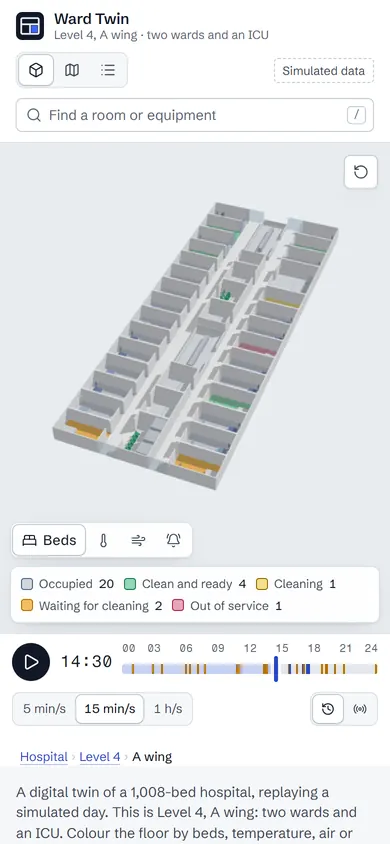
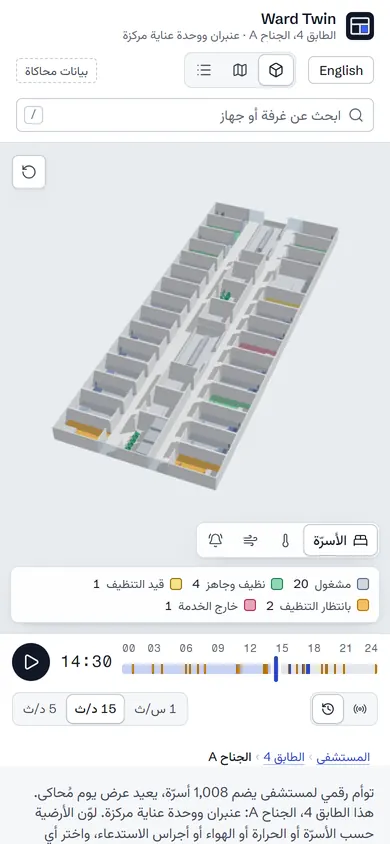
Ward Twin case: the Arabic interface
- Ward Twin is now Arabic and English (AR/EN) and listed under Arabic,
  right to left: its whole interface switches to Arabic (ward-twin
  8b67f96).
- A story block on what mirrors and what keeps running left to right,
  the Arabic plurals and floor labels, Vazirmatn chosen by comparison,
  and the test that holds the catalogue to the code.
- The phone evidence is recaptured in Arabic; a link opens the demo in
  Arabic.
- 56 unit and 16 browser tests; the first load, 89.7 kB, counts the
  chunks the entry imports.

diff --git a/index.html b/index.html
@@ -2840,16 +2840,16 @@ clip-path: none !important;
 <article class="feature feature--film" id="case-wardtwin" aria-labelledby="case-wardtwin-title">
   <header class="feature__head">
     <h3 class="feature__title" id="case-wardtwin-title">Ward Twin</h3>
-    <p class="feature__lede">A digital twin of a hospital, built as a concept: six levels of six wings as a 3D model in the browser, replaying one simulated day or following it live, event by event. Beds turn over from occupied to cleaning to ready, rooms warm through HVAC faults, call lights wait too long at shift change and pumps move between rooms. It opens on one wing, pulls out to a level or the whole building, and from any bed finds the nearest free equipment and the walk to it. I designed it and built all of it, the simulation included, and every number on it is simulated.</p>
+    <p class="feature__lede">A digital twin of a hospital, built as a concept: six levels of six wings as a 3D model in the browser, replaying one simulated day or following it live, event by event. Beds turn over from occupied to cleaning to ready, rooms warm through HVAC faults, call lights wait too long at shift change and pumps move between rooms. It opens on one wing, pulls out to a level or the whole building, and from any bed finds the nearest free equipment and the walk to it. The whole interface also switches to Arabic, right to left. I designed it and built all of it, the simulation included, and every number on it is simulated.</p>
   </header>
   <dl class="glance"><div><dt>Role</dt><dd>Concept, design and build</dd></div><div><dt>Focus</dt><dd>A 3D model that answers one operational question at a time, and stays fast at the scale of a hospital</dd></div><div><dt>Built with</dt><dd>React Three Fiber, three.js and TypeScript; compressed glTF; the day simulated in a Web Worker; wayfinding on a graph of the building</dd></div><div><dt>Live demo</dt><dd><a href="https://imsemoo.github.io/ward-twin/" target="_blank" rel="noopener">imsemoo.github.io/ward-twin</a></dd></div></dl>
   <figure class="film" data-film data-reveal-ev><div class="film__frame"><video class="film__video" src="img/work/ev/wardtwin-film-720.mp4" poster="img/work/ev/wardtwin-film-still.webp" width="1280" height="720" controls muted playsinline preload="none" aria-label="Ward Twin demo film"></video></div><figcaption class="ev__cap">A 40-second recording of the live demo, captured frame by frame on a fixed clock: the opening shot, the four layers, room 4A09 heating past its limit through the afternoon, the walk to the nearest free pump in the next wing, the whole hospital drawn apart, and level 4 in 3D and as a plan.</figcaption></figure>
-  <div class="evidence evidence--p2" style="--phones: 2"><figure class="ev ev--wide" data-reveal-ev><div class="shot "><div class="shot__bar"><span class="shot__cap">imsemoo.github.io/ward-twin/?select=4A09&amp;t=21:00</span></div><img class="shot__img" src="img/work/ev/wardtwin-route-1400.webp" srcset="img/work/ev/wardtwin-route-800.webp 800w, img/work/ev/wardtwin-route-1400.webp 1400w" sizes="(min-width: 900px) 58vw, 94vw" width="1400" height="875" alt="Level 4 in 3D with a dashed blue line from room 4A09 along the corridor and across a glazed link to a pump in the next wing, tagged 1 min away, beside the room&#x27;s panel." loading="lazy" decoding="async"></div><figcaption class="ev__cap">At 21:00 no pump is free in 4A09&#x27;s own wing. The nearest is in the next one, and the walk is drawn down the corridor and across the glazed link: 87 m, about a minute.</figcaption></figure><figure class="ev ev--phone" data-reveal-ev><div class="phone"><img src="img/work/ev/wardtwin-home-phone-600.webp" srcset="img/work/ev/wardtwin-home-phone-390.webp 390w, img/work/ev/wardtwin-home-phone-600.webp 600w" sizes="(min-width: 900px) 15vw, 44vw" width="600" height="1298" alt="Wing 4A on a phone, turned lengthwise, above the layer switch, its key and the timeline." loading="lazy" decoding="async"></div><figcaption class="ev__cap">At phone width a wing turns lengthwise to fit the screen, above the layer key and the timeline.</figcaption></figure><figure class="ev ev--phone" data-reveal-ev><div class="phone"><img src="img/work/ev/wardtwin-room-phone-600.webp" srcset="img/work/ev/wardtwin-room-phone-390.webp 390w, img/work/ev/wardtwin-room-phone-600.webp 600w" sizes="(min-width: 900px) 15vw, 44vw" width="600" height="1298" alt="Room 4A09 close up on a phone, its floor red in the temperature layer, with a tag reading its temperature." loading="lazy" decoding="async"></div><figcaption class="ev__cap">Room 4A09 at 15:30, in the temperature layer. The camera flew to it from a link that names the room, the layer and the time.</figcaption></figure></div>
+  <div class="evidence evidence--p2" style="--phones: 2"><figure class="ev ev--wide" data-reveal-ev><div class="shot "><div class="shot__bar"><span class="shot__cap">imsemoo.github.io/ward-twin/?select=4A09&amp;t=21:00</span></div><img class="shot__img" src="img/work/ev/wardtwin-route-1400.webp" srcset="img/work/ev/wardtwin-route-800.webp 800w, img/work/ev/wardtwin-route-1400.webp 1400w" sizes="(min-width: 900px) 58vw, 94vw" width="1400" height="875" alt="Level 4 in 3D with a dashed blue line from room 4A09 along the corridor and across a glazed link to a pump in the next wing, tagged 1 min away, beside the room&#x27;s panel." loading="lazy" decoding="async"></div><figcaption class="ev__cap">At 21:00 no pump is free in 4A09&#x27;s own wing. The nearest is in the next one, and the walk is drawn down the corridor and across the glazed link: 87 m, about a minute.</figcaption></figure><figure class="ev ev--phone" data-reveal-ev><div class="phone"><img src="img/work/ev/wardtwin-home-phone-600.webp" srcset="img/work/ev/wardtwin-home-phone-390.webp 390w, img/work/ev/wardtwin-home-phone-600.webp 600w" sizes="(min-width: 900px) 15vw, 44vw" width="600" height="1298" alt="Wing 4A on a phone in Arabic: the top bar, the layer switch and its key right to left above the model, turned lengthwise, and the timeline." loading="lazy" decoding="async"></div><figcaption class="ev__cap">At phone width a wing turns lengthwise to fit the screen. Here in Arabic: the bar, the layers and the key read right to left, and the timeline still runs left to right.</figcaption></figure><figure class="ev ev--phone" data-reveal-ev><div class="phone"><img src="img/work/ev/wardtwin-room-phone-600.webp" srcset="img/work/ev/wardtwin-room-phone-390.webp 390w, img/work/ev/wardtwin-room-phone-600.webp 600w" sizes="(min-width: 900px) 15vw, 44vw" width="600" height="1298" alt="Room 4A09 close up on a phone, its floor red in the temperature layer, with a tag reading its temperature." loading="lazy" decoding="async"></div><figcaption class="ev__cap">Room 4A09 at 15:30, in the temperature layer. The camera flew to it from a link that names the room, the layer and the time.</figcaption></figure></div>
   <p class="decision"><strong class="decision__lead">The decision.</strong> The floors carry the data, one question at a time. A layer colours every room, in one wing or across all six levels, by bed state, temperature, air or call-light wait, with its key beside it, on a white model that never competes with the colour. In temperature and air a room shows its own sensor and only the corridors, which have none, are estimated, from the doors that open onto them. Picking a room flies the camera to it and opens that room&#x27;s day beside the model.</p>
-  <section class="system" aria-labelledby="case-wardtwin-system"><h4 id="case-wardtwin-system">The system: an architect&#x27;s white model, data on the floors</h4><ul class="swatches"><li class="sw"><span class="sw__chip" style="--c:#E8ECF0" aria-hidden="true"></span><span class="sw__name">Ground</span><code>#E8ECF0</code><span class="sw__role">The drafting ground under the model</span></li><li class="sw"><span class="sw__chip" style="--c:#FBFBFC" aria-hidden="true"></span><span class="sw__name">Model</span><code>#FBFBFC</code><span class="sw__role">Walls, beds and fixtures, the white model</span></li><li class="sw"><span class="sw__chip" style="--c:#2A3441" aria-hidden="true"></span><span class="sw__name">Ink</span><code>#2A3441</code><span class="sw__role">The walls in plan view, cut and inked</span></li><li class="sw"><span class="sw__chip" style="--c:#2946C7" aria-hidden="true"></span><span class="sw__name">Blue line</span><code>#2946C7</code><span class="sw__role">Selection, focus and actions, 7.5:1 on white</span></li><li class="sw"><span class="sw__chip" style="--c:#157A4C" aria-hidden="true"></span><span class="sw__name">Ready</span><code>#157A4C</code><span class="sw__role">A clean bed; its soft tint fills the floor</span></li><li class="sw"><span class="sw__chip" style="--c:#B86E00" aria-hidden="true"></span><span class="sw__name">Waiting</span><code>#B86E00</code><span class="sw__role">A bed waiting for cleaning, and warnings</span></li></ul><p class="system__note">Schibsted Grotesk carries the interface and Fragment Mono the room numbers, times and readings, with tabular figures. Every status comes in two strengths: a strong one for chips and icons in the panel, a soft one for the floors, so the model stays white and colour always means data. Temperature and air get their own ramps, with the key beside the model.</p><figure class="ev ev--grid" data-reveal-ev><ul class="vgrid" style="--n: 4"><li class="vgrid__item"><img src="img/work/ev/wardtwin-plan-600.webp" width="600" height="375" alt="A wing as a plan: walls cut and inked, rooms coloured by bed state." loading="lazy" decoding="async"><span class="vgrid__label">Plan view</span></li><li class="vgrid__item"><img src="img/work/ev/wardtwin-air-600.webp" width="600" height="375" alt="The plan coloured by CO2 at 18:00, the family lounge darkest and its stale air estimated spilling into the corridor outside its door, its alert in the side panel." loading="lazy" decoding="async"><span class="vgrid__label">Air at 18:00</span></li><li class="vgrid__item"><img src="img/work/ev/wardtwin-level-600.webp" width="600" height="375" alt="Level 4 in 3D: six wings on one plate, joined by glazed links, each named." loading="lazy" decoding="async"><span class="vgrid__label">Level 4</span></li><li class="vgrid__item"><img src="img/work/ev/wardtwin-list-600.webp" width="600" height="375" alt="Every wing in a table: beds occupied, ready, being cleaned, waiting and out of service, and its open alerts." loading="lazy" decoding="async"><span class="vgrid__label">List view</span></li></ul><figcaption class="ev__cap">Four views of the same day: a wing as a plan drawing, the air layer at 18:00, level 4 with its six wings, and every wing of the hospital in a table.</figcaption></figure></section>
-  <div class="story"><div class="story__blocks"><section class="story__block"><h4>A day that behaves like a ward</h4><p>The simulation is written to tell a ward&#x27;s afternoon: discharges cluster late in the morning and admissions arrive through the evening, so beds sit dirty, then in cleaning, then ready and waiting. Rooms warm through HVAC faults, the family lounge gets stuffy in visiting hours, pumps run low until someone plugs them in, and call lights wait longer at shift change. Each of the 36 wings runs from its own seed, so every visitor replays the same day and one wing&#x27;s day never shifts another&#x27;s; wing 4A, where the demo opens, keeps a scripted story on top. It all runs in a Web Worker, and the wing on show arrives first, in under 30 ms, with the rest of the hospital under a second behind.</p></section><section class="story__block"><h4>From one wing to the whole hospital</h4><p>The model works at three scales. A wing is two wards and an ICU, close enough to read a bed. A level puts its six wings on one plate, joined by glazed links. All levels draws the six floors apart, an exploded section of the building, each coloured by the same layer, so a warm room shows from across the hospital. A map of the building sits beside the model, every wing shaded by how full it is and marked where something critical is open; a click on a wing flies into it, and a trail above the panel leads back up. The camera fits each scale by projecting its corners through a trial camera, so the model always clears the overlays, and the address bar keeps the scale, view, layer, time and selection, so every view is a link.</p></section><section class="story__block"><h4>The drawing and the model are one scene</h4><p>Plan view does not swap in a flat map. Every wall sinks to a section cut 15 cm above the floor and darkens to ink, so the model turns into the architect&#x27;s drawing and back, for a wing or a whole level, and the first load plays the same move the other way: the plan rises into the building. List view carries the same data as a table, for keyboards, screen readers and anyone who wants to scan.</p></section><section class="story__block"><h4>The nearest free pump, and the walk to it</h4><p>From any bed, Nearest free finds the infusion pump, wheelchair or bladder scanner, or from an ICU bay the ventilator, that is quickest to reach on foot anywhere in the hospital. The walk runs on a graph of the building, 4,296 points: every room and its door, both corridors of each wing, the crossing through the core, the glazed links and the lifts. Costs are seconds, 1.2 m/s on foot and a lift as a wait plus a few seconds a floor. The question has many possible answers, so one Dijkstra search from the room reaches them all, where A* would need a search for each pump; a search takes 2 to 11 ms. The walk is drawn over the walls, the view widens to the level or the building to hold it, and the search loads only when someone first asks, as its own 1.4 kB file.</p></section><section class="story__block"><h4>Alerts that know only the present</h4><p>An alert keeps only what was known when it opened, and it is worded at the minute on the timeline: pressed at 14:21, nine minutes without an answer. Scrub to any time and nothing gives away what happens next. Severity is read at that minute too, so a warming room turns critical only once it passes 26.5 °C.</p></section><section class="story__block"><h4>Live, from a stream of events</h4><p>Live mode builds the hospital from events as they arrive instead of from a recorded day. A mock server in a Web Worker plays the day over the JSON protocol a real integration server would use, a simulated minute each second, and the page folds each event into the same day the views already read, so none of them had to change. Sequence numbers keep the stream whole: when the connection drops, the page says the floor is stale, waits longer before each retry, and asks for only the events it missed, from the last 2,000 the server keeps. A test replays the whole day as events and checks that it reads exactly like the recording at every five-minute reading.</p></section><section class="story__block"><h4>Fast because it draws less</h4><p>The canvas renders only when something changes, so an idle hospital costs no GPU time. Every wing is built to one plan, so each part of the shell is one instanced mesh for all 36 wings, and the 1,368 room floors are one more, which is also the pick target. Only what is in view is packed into what the GPU draws: the first build of the hospital hid the other wings but still sent them to the GPU, 207,000 triangles for one wing, and packing brought that back to 15,000. Beds, patients, bedside furniture and equipment are glTF models, 17,208 triangles compressed to 129 KB, drawn as instances with a shader that tints only the parts that carry state, such as a blanket or a pump&#x27;s housing. Each switches to a plain proxy by its distance from where the camera looks, and to a box in the whole-hospital view, which draws in 33 draw calls, fewer than one wing up close. The corridors&#x27; temperature and air are estimated in the fragment shader, from each wing&#x27;s 38 doors weighted by how wide they are, with isolines and the alert limit drawn from screen-space derivatives; switching that layer on costs 1 or 2 fps.</p></section><section class="story__block"><h4>It adapts, recovers and is tested</h4><p>Quality adapts to the device: four levels, from ambient occlusion with SMAA down to plain rendering at a lower pixel ratio, stepped by the frame rate measured while the scene moves. If the graphics driver resets, the view says it has paused and rebuilds itself. Every push runs 51 unit tests, 14 browser tests with real WebGL at desktop and phone size, lint, types and a size budget for each bundle, and a failure stops the deploy.</p></section></div></div>
-  <div class="outcome outcome--two"><div class="outcome__result"><h4>Result</h4><ul><li>A concept: the hospital, the patients and the readings are simulated, and the page says so on every view.</li><li>Live on GitHub Pages, with the code public. The interface loads first at under 90 kB gzipped, the scene and three.js follow at 215 kB and 99 kB, then the models at 129 KB. Ambient occlusion and SMAA load last, at 157 kB, and only when the quality level uses them; the wayfinding search loads on first use, at 1.4 kB.</li><li>Measured in September 2026 on an integrated Intel GPU at 1280 by 800, orbiting with ambient occlusion and SMAA, over three runs: the whole hospital at 72 to 90 fps in 33 draw calls, a level at 74 to 90 fps, one wing at 69 to 81 fps in 43, and close to a room at 61 to 77 fps.</li></ul></div><div class="outcome__reflect"><h4>What I would do differently</h4><p>Test on a range of real devices. The frame rates here come from one laptop and emulated phones, and a low-end Android phone is the test it still needs.</p></div></div>
-  <p class="feature__links"><a class="btn btn--ghost" href="https://imsemoo.github.io/ward-twin/" target="_blank" rel="noopener">Open the live demo <svg class="icon" aria-hidden="true" focusable="false"><use href="#i-arrow-up-right"/></svg></a><a class="btn btn--ghost" href="https://imsemoo.github.io/ward-twin/?at=hospital" target="_blank" rel="noopener">Open the whole hospital <svg class="icon" aria-hidden="true" focusable="false"><use href="#i-arrow-up-right"/></svg></a><a class="btn btn--ghost" href="https://github.com/imsemoo/ward-twin" target="_blank" rel="noopener">Code on GitHub <svg class="icon" aria-hidden="true" focusable="false"><use href="#i-arrow-up-right"/></svg></a><a class="btn btn--ghost" href="https://github.com/imsemoo/ward-twin/blob/main/docs/live-feed.md" target="_blank" rel="noopener">How the live feed works <svg class="icon" aria-hidden="true" focusable="false"><use href="#i-arrow-up-right"/></svg></a></p>
+  <section class="system" aria-labelledby="case-wardtwin-system"><h4 id="case-wardtwin-system">The system: an architect&#x27;s white model, data on the floors</h4><ul class="swatches"><li class="sw"><span class="sw__chip" style="--c:#E8ECF0" aria-hidden="true"></span><span class="sw__name">Ground</span><code>#E8ECF0</code><span class="sw__role">The drafting ground under the model</span></li><li class="sw"><span class="sw__chip" style="--c:#FBFBFC" aria-hidden="true"></span><span class="sw__name">Model</span><code>#FBFBFC</code><span class="sw__role">Walls, beds and fixtures, the white model</span></li><li class="sw"><span class="sw__chip" style="--c:#2A3441" aria-hidden="true"></span><span class="sw__name">Ink</span><code>#2A3441</code><span class="sw__role">The walls in plan view, cut and inked</span></li><li class="sw"><span class="sw__chip" style="--c:#2946C7" aria-hidden="true"></span><span class="sw__name">Blue line</span><code>#2946C7</code><span class="sw__role">Selection, focus and actions, 7.5:1 on white</span></li><li class="sw"><span class="sw__chip" style="--c:#157A4C" aria-hidden="true"></span><span class="sw__name">Ready</span><code>#157A4C</code><span class="sw__role">A clean bed; its soft tint fills the floor</span></li><li class="sw"><span class="sw__chip" style="--c:#B86E00" aria-hidden="true"></span><span class="sw__name">Waiting</span><code>#B86E00</code><span class="sw__role">A bed waiting for cleaning, and warnings</span></li></ul><p class="system__note">Schibsted Grotesk carries the interface, Vazirmatn its Arabic, and Fragment Mono the room numbers, times and readings, with tabular figures. Every status comes in two strengths: a strong one for chips and icons in the panel, a soft one for the floors, so the model stays white and colour always means data. Temperature and air get their own ramps, with the key beside the model.</p><figure class="ev ev--grid" data-reveal-ev><ul class="vgrid" style="--n: 4"><li class="vgrid__item"><img src="img/work/ev/wardtwin-plan-600.webp" width="600" height="375" alt="A wing as a plan: walls cut and inked, rooms coloured by bed state." loading="lazy" decoding="async"><span class="vgrid__label">Plan view</span></li><li class="vgrid__item"><img src="img/work/ev/wardtwin-air-600.webp" width="600" height="375" alt="The plan coloured by CO2 at 18:00, the family lounge darkest and its stale air estimated spilling into the corridor outside its door, its alert in the side panel." loading="lazy" decoding="async"><span class="vgrid__label">Air at 18:00</span></li><li class="vgrid__item"><img src="img/work/ev/wardtwin-level-600.webp" width="600" height="375" alt="Level 4 in 3D: six wings on one plate, joined by glazed links, each named." loading="lazy" decoding="async"><span class="vgrid__label">Level 4</span></li><li class="vgrid__item"><img src="img/work/ev/wardtwin-list-600.webp" width="600" height="375" alt="Every wing in a table: beds occupied, ready, being cleaned, waiting and out of service, and its open alerts." loading="lazy" decoding="async"><span class="vgrid__label">List view</span></li></ul><figcaption class="ev__cap">Four views of the same day: a wing as a plan drawing, the air layer at 18:00, level 4 with its six wings, and every wing of the hospital in a table.</figcaption></figure></section>
+  <div class="story"><div class="story__blocks"><section class="story__block"><h4>A day that behaves like a ward</h4><p>The simulation is written to tell a ward&#x27;s afternoon: discharges cluster late in the morning and admissions arrive through the evening, so beds sit dirty, then in cleaning, then ready and waiting. Rooms warm through HVAC faults, the family lounge gets stuffy in visiting hours, pumps run low until someone plugs them in, and call lights wait longer at shift change. Each of the 36 wings runs from its own seed, so every visitor replays the same day and one wing&#x27;s day never shifts another&#x27;s; wing 4A, where the demo opens, keeps a scripted story on top. It all runs in a Web Worker, and the wing on show arrives first, in under 30 ms, with the rest of the hospital under a second behind.</p></section><section class="story__block"><h4>From one wing to the whole hospital</h4><p>The model works at three scales. A wing is two wards and an ICU, close enough to read a bed. A level puts its six wings on one plate, joined by glazed links. All levels draws the six floors apart, an exploded section of the building, each coloured by the same layer, so a warm room shows from across the hospital. A map of the building sits beside the model, every wing shaded by how full it is and marked where something critical is open; a click on a wing flies into it, and a trail above the panel leads back up. The camera fits each scale by projecting its corners through a trial camera, so the model always clears the overlays, and the address bar keeps the scale, view, layer, time and selection, so every view is a link.</p></section><section class="story__block"><h4>The drawing and the model are one scene</h4><p>Plan view does not swap in a flat map. Every wall sinks to a section cut 15 cm above the floor and darkens to ink, so the model turns into the architect&#x27;s drawing and back, for a wing or a whole level, and the first load plays the same move the other way: the plan rises into the building. List view carries the same data as a table, for keyboards, screen readers and anyone who wants to scan.</p></section><section class="story__block"><h4>The nearest free pump, and the walk to it</h4><p>From any bed, Nearest free finds the infusion pump, wheelchair or bladder scanner, or from an ICU bay the ventilator, that is quickest to reach on foot anywhere in the hospital. The walk runs on a graph of the building, 4,296 points: every room and its door, both corridors of each wing, the crossing through the core, the glazed links and the lifts. Costs are seconds, 1.2 m/s on foot and a lift as a wait plus a few seconds a floor. The question has many possible answers, so one Dijkstra search from the room reaches them all, where A* would need a search for each pump; a search takes 2 to 11 ms. The walk is drawn over the walls, the view widens to the level or the building to hold it, and the search loads only when someone first asks, as its own 1.4 kB file.</p></section><section class="story__block"><h4>Alerts that know only the present</h4><p>An alert keeps only what was known when it opened, and it is worded at the minute on the timeline: pressed at 14:21, nine minutes without an answer. Scrub to any time and nothing gives away what happens next. Severity is read at that minute too, so a warming room turns critical only once it passes 26.5 °C.</p></section><section class="story__block"><h4>In English or Arabic</h4><p>A switch in the top bar turns the whole interface to Arabic, right to left, and a link can open it that way. The layout mirrors, the panel moving to the left of the model and the overlays trading sides, while time and scales keep running left to right, as in a media player: the timeline, the charts, the colour ramps and the map of the building. The alerts are worded in Arabic with its six plural forms, and the room names are set in Arabic on the floors. Vazirmatn was chosen by setting the interface&#x27;s own text in six Arabic faces beside Schibsted Grotesk. It and the Arabic catalogue load only for an Arabic visit, and a test that parses the source fails if the catalogue misses a string the interface says.</p></section><section class="story__block"><h4>Live, from a stream of events</h4><p>Live mode builds the hospital from events as they arrive instead of from a recorded day. A mock server in a Web Worker plays the day over the JSON protocol a real integration server would use, a simulated minute each second, and the page folds each event into the same day the views already read, so none of them had to change. Sequence numbers keep the stream whole: when the connection drops, the page says the floor is stale, waits longer before each retry, and asks for only the events it missed, from the last 2,000 the server keeps. A test replays the whole day as events and checks that it reads exactly like the recording at every five-minute reading.</p></section><section class="story__block"><h4>Fast because it draws less</h4><p>The canvas renders only when something changes, so an idle hospital costs no GPU time. Every wing is built to one plan, so each part of the shell is one instanced mesh for all 36 wings, and the 1,368 room floors are one more, which is also the pick target. Only what is in view is packed into what the GPU draws: the first build of the hospital hid the other wings but still sent them to the GPU, 207,000 triangles for one wing, and packing brought that back to 15,000. Beds, patients, bedside furniture and equipment are glTF models, 17,208 triangles compressed to 129 KB, drawn as instances with a shader that tints only the parts that carry state, such as a blanket or a pump&#x27;s housing. Each switches to a plain proxy by its distance from where the camera looks, and to a box in the whole-hospital view, which draws in 33 draw calls, fewer than one wing up close. The corridors&#x27; temperature and air are estimated in the fragment shader, from each wing&#x27;s 38 doors weighted by how wide they are, with isolines and the alert limit drawn from screen-space derivatives; switching that layer on costs 1 or 2 fps.</p></section><section class="story__block"><h4>It adapts, recovers and is tested</h4><p>Quality adapts to the device: four levels, from ambient occlusion with SMAA down to plain rendering at a lower pixel ratio, stepped by the frame rate measured while the scene moves. If the graphics driver resets, the view says it has paused and rebuilds itself. Every push runs 56 unit tests, 16 browser tests with real WebGL at desktop and phone size, lint, types and a size budget for each bundle, and a failure stops the deploy.</p></section></div></div>
+  <div class="outcome outcome--two"><div class="outcome__result"><h4>Result</h4><ul><li>A concept: the hospital, the patients and the readings are simulated, and the page says so on every view.</li><li>Live on GitHub Pages, with the code public. What paints the interface loads first, at 89.7 kB gzipped; the scene and three.js follow at 215 kB and 99 kB, then the models at 129 KB. Ambient occlusion and SMAA load last, at 157 kB, and only when the quality level uses them, and the wayfinding search, live mode and the Arabic catalogue load on first use.</li><li>Measured in September 2026 on an integrated Intel GPU at 1280 by 800, orbiting with ambient occlusion and SMAA, over three runs: the whole hospital at 72 to 90 fps in 33 draw calls, a level at 74 to 90 fps, one wing at 69 to 81 fps in 43, and close to a room at 61 to 77 fps.</li></ul></div><div class="outcome__reflect"><h4>What I would do differently</h4><p>Test on a range of real devices. The frame rates here come from one laptop and emulated phones, and a low-end Android phone is the test it still needs.</p></div></div>
+  <p class="feature__links"><a class="btn btn--ghost" href="https://imsemoo.github.io/ward-twin/" target="_blank" rel="noopener">Open the live demo <svg class="icon" aria-hidden="true" focusable="false"><use href="#i-arrow-up-right"/></svg></a><a class="btn btn--ghost" href="https://imsemoo.github.io/ward-twin/?at=hospital" target="_blank" rel="noopener">Open the whole hospital <svg class="icon" aria-hidden="true" focusable="false"><use href="#i-arrow-up-right"/></svg></a><a class="btn btn--ghost" href="https://imsemoo.github.io/ward-twin/?lang=ar" target="_blank" rel="noopener">Open it in Arabic <svg class="icon" aria-hidden="true" focusable="false"><use href="#i-arrow-up-right"/></svg></a><a class="btn btn--ghost" href="https://github.com/imsemoo/ward-twin" target="_blank" rel="noopener">Code on GitHub <svg class="icon" aria-hidden="true" focusable="false"><use href="#i-arrow-up-right"/></svg></a><a class="btn btn--ghost" href="https://github.com/imsemoo/ward-twin/blob/main/docs/live-feed.md" target="_blank" rel="noopener">How the live feed works <svg class="icon" aria-hidden="true" focusable="false"><use href="#i-arrow-up-right"/></svg></a></p>
 </article>
 
     <section class="briefs" aria-labelledby="briefs-title">
@@ -2925,7 +2925,7 @@ clip-path: none !important;
       <p class="lede">46 projects, 36 with a public link. Filter by the kind of project you have in mind and by what you need. Rows marked Case study or In brief open on this page; the rest open the site, or the code where that is public.</p>
     </div>
     <div class="index__bar">
-      <div class="filters" role="group" aria-label="Filter the index"><div class="filters__group" role="group" aria-labelledby="fg-type"><span class="filters__label" id="fg-type">Project type</span><div class="filters__chips"><button class="chip" type="button" data-filter="all" data-group="type" aria-pressed="true">Everything<span class="chip__n" aria-hidden="true" data-n>46</span><span class="visually-hidden" data-n-sr>, 46 projects</span></button><button class="chip" type="button" data-filter="news" data-group="type" aria-pressed="false">News and media<span class="chip__n" aria-hidden="true" data-n>13</span><span class="visually-hidden" data-n-sr>, 13 projects</span></button><button class="chip" type="button" data-filter="apps" data-group="type" aria-pressed="false">Dashboards and web apps<span class="chip__n" aria-hidden="true" data-n>13</span><span class="visually-hidden" data-n-sr>, 13 projects</span></button><button class="chip" type="button" data-filter="commerce" data-group="type" aria-pressed="false">Stores and bookings<span class="chip__n" aria-hidden="true" data-n>9</span><span class="visually-hidden" data-n-sr>, 9 projects</span></button><button class="chip" type="button" data-filter="company" data-group="type" aria-pressed="false">Company sites<span class="chip__n" aria-hidden="true" data-n>11</span><span class="visually-hidden" data-n-sr>, 11 projects</span></button><button class="chip" type="button" data-filter="research" data-group="type" aria-pressed="false">Research and education<span class="chip__n" aria-hidden="true" data-n>4</span><span class="visually-hidden" data-n-sr>, 4 projects</span></button></div></div><div class="filters__group" role="group" aria-labelledby="fg-need"><span class="filters__label" id="fg-need">What you need</span><div class="filters__chips"><button class="chip" type="button" data-filter="design" data-group="need" aria-pressed="false">Design and build<span class="chip__n" aria-hidden="true" data-n>21</span><span class="visually-hidden" data-n-sr>, 21 projects</span></button><button class="chip" type="button" data-filter="figma" data-group="need" aria-pressed="false">Build from my design<span class="chip__n" aria-hidden="true" data-n>6</span><span class="visually-hidden" data-n-sr>, 6 projects</span></button><button class="chip" type="button" data-filter="rtl" data-group="need" aria-pressed="false">Arabic, right to left<span class="chip__n" aria-hidden="true" data-n>21</span><span class="visually-hidden" data-n-sr>, 21 projects</span></button></div></div></div>
+      <div class="filters" role="group" aria-label="Filter the index"><div class="filters__group" role="group" aria-labelledby="fg-type"><span class="filters__label" id="fg-type">Project type</span><div class="filters__chips"><button class="chip" type="button" data-filter="all" data-group="type" aria-pressed="true">Everything<span class="chip__n" aria-hidden="true" data-n>46</span><span class="visually-hidden" data-n-sr>, 46 projects</span></button><button class="chip" type="button" data-filter="news" data-group="type" aria-pressed="false">News and media<span class="chip__n" aria-hidden="true" data-n>13</span><span class="visually-hidden" data-n-sr>, 13 projects</span></button><button class="chip" type="button" data-filter="apps" data-group="type" aria-pressed="false">Dashboards and web apps<span class="chip__n" aria-hidden="true" data-n>13</span><span class="visually-hidden" data-n-sr>, 13 projects</span></button><button class="chip" type="button" data-filter="commerce" data-group="type" aria-pressed="false">Stores and bookings<span class="chip__n" aria-hidden="true" data-n>9</span><span class="visually-hidden" data-n-sr>, 9 projects</span></button><button class="chip" type="button" data-filter="company" data-group="type" aria-pressed="false">Company sites<span class="chip__n" aria-hidden="true" data-n>11</span><span class="visually-hidden" data-n-sr>, 11 projects</span></button><button class="chip" type="button" data-filter="research" data-group="type" aria-pressed="false">Research and education<span class="chip__n" aria-hidden="true" data-n>4</span><span class="visually-hidden" data-n-sr>, 4 projects</span></button></div></div><div class="filters__group" role="group" aria-labelledby="fg-need"><span class="filters__label" id="fg-need">What you need</span><div class="filters__chips"><button class="chip" type="button" data-filter="design" data-group="need" aria-pressed="false">Design and build<span class="chip__n" aria-hidden="true" data-n>21</span><span class="visually-hidden" data-n-sr>, 21 projects</span></button><button class="chip" type="button" data-filter="figma" data-group="need" aria-pressed="false">Build from my design<span class="chip__n" aria-hidden="true" data-n>6</span><span class="visually-hidden" data-n-sr>, 6 projects</span></button><button class="chip" type="button" data-filter="rtl" data-group="need" aria-pressed="false">Arabic, right to left<span class="chip__n" aria-hidden="true" data-n>22</span><span class="visually-hidden" data-n-sr>, 22 projects</span></button></div></div></div>
       <p class="index__count" aria-live="polite"><span data-count>46</span> shown</p>
     </div>
     <ol class="rows" id="index-rows" data-rows data-open="12">
@@ -2936,7 +2936,7 @@ clip-path: none !important;
 <li class="row row--t1" id="p-iwad" data-tags="research design rtl" data-preview="img/work/iwad-600.webp" data-rank-design="1"><span class="row__thumb"><img src="img/work/iwad-thumb.webp" width="240" height="150" alt="" loading="lazy" decoding="async"></span><div class="row__main"><span class="row__title"><a class="row__link" href="#case-devlo"><span class="row__name">IWAD <span class="ar" lang="ar" dir="rtl">إيواد</span></span></a><span class="row__badge">In the Devlo case study</span></span><span class="row__client">Defence research institute</span></div><span class="row__role">UI design from the brand book, the design system and the <span class="nobr">front-end</span></span><span class="row__stack"><span class="tag">HTML</span><span class="tag">CSS</span><span class="tag">JavaScript</span></span><span class="row__lang" title="Arabic"><span class="visually-hidden">Arabic</span><span aria-hidden="true">AR</span></span><a class="row__ext" href="https://wardefense.institute/" target="_blank" rel="noopener" aria-label="Visit wardefense.institute"><span class="row__ext-text">Visit</span><svg class="icon" aria-hidden="true" focusable="false"><use href="#i-arrow-up-right"/></svg></a></li>
 <li class="row row--t1" id="p-kevla" data-tags="company design" data-preview="img/work/kevla-600.webp" data-rank-design="13"><span class="row__thumb"><img src="img/work/kevla-thumb.webp" width="240" height="150" alt="" loading="lazy" decoding="async"></span><div class="row__main"><span class="row__title"><a class="row__link" href="#case-kevla"><span class="row__name">Kevla Campa</span></a><span class="row__badge">Case study</span></span><span class="row__client">Caravan maker, a design concept<span class="row__where">Australia</span></span></div><span class="row__role">Design and <span class="nobr">front-end</span>, not launched</span><span class="row__stack"><span class="tag">HTML</span><span class="tag">CSS</span><span class="tag">ES modules</span></span><span class="row__lang" title="English"><span class="visually-hidden">English</span><span aria-hidden="true">EN</span></span><a class="row__ext" href="https://imsemoo.github.io/kevla-campa/" target="_blank" rel="noopener" aria-label="Visit imsemoo.github.io/kevla-campa"><span class="row__ext-text">Visit</span><svg class="icon" aria-hidden="true" focusable="false"><use href="#i-arrow-up-right"/></svg></a></li>
 <li class="row row--t1" id="p-freightzone" data-tags="apps design" data-preview="img/work/freightzone-600.webp" data-rank-design="3"><span class="row__thumb"><img src="img/work/freightzone-thumb.webp" width="240" height="150" alt="" loading="lazy" decoding="async"></span><div class="row__main"><span class="row__title"><a class="row__link" href="#case-freightzone"><span class="row__name">FreightZone</span></a><span class="row__badge">Case study</span></span><span class="row__client">Freight marketplace, client and driver apps<span class="row__where">Australia</span></span></div><span class="row__role">Product design: UX, UI and the design system</span><span class="row__stack"><span class="tag">Figma</span><span class="tag">Design tokens</span><span class="tag">Auto layout</span></span><span class="row__lang" title="English"><span class="visually-hidden">English</span><span aria-hidden="true">EN</span></span><a class="row__ext" href="https://www.figma.com/design/KLzNmrJ5ljExMreBmA9e5Y/FreightZone-App?node-id=1-2" target="_blank" rel="noopener" aria-label="Visit figma.com/design/KLzNmrJ5ljExMreBmA9e5Y/FreightZone-App?node-id=1-2"><span class="row__ext-text">Visit</span><svg class="icon" aria-hidden="true" focusable="false"><use href="#i-arrow-up-right"/></svg></a></li>
-<li class="row row--t1" id="p-wardtwin" data-tags="apps design" data-preview="img/work/wardtwin-600.webp" data-rank-design="4"><span class="row__thumb"><img src="img/work/wardtwin-thumb.webp" width="240" height="150" alt="" loading="lazy" decoding="async"></span><div class="row__main"><span class="row__title"><a class="row__link" href="#case-wardtwin"><span class="row__name">Ward Twin</span></a><span class="row__badge">Case study</span></span><span class="row__client">Hospital digital twin, a concept</span></div><span class="row__role">Concept, 3D, interface and build</span><span class="row__stack"><span class="tag">React Three Fiber</span><span class="tag">three.js</span><span class="tag">glTF</span></span><span class="row__lang" title="English"><span class="visually-hidden">English</span><span aria-hidden="true">EN</span></span><a class="row__ext" href="https://imsemoo.github.io/ward-twin/" target="_blank" rel="noopener" aria-label="Visit imsemoo.github.io/ward-twin"><span class="row__ext-text">Visit</span><svg class="icon" aria-hidden="true" focusable="false"><use href="#i-arrow-up-right"/></svg></a></li>
+<li class="row row--t1" id="p-wardtwin" data-tags="apps design rtl" data-preview="img/work/wardtwin-600.webp" data-rank-design="4"><span class="row__thumb"><img src="img/work/wardtwin-thumb.webp" width="240" height="150" alt="" loading="lazy" decoding="async"></span><div class="row__main"><span class="row__title"><a class="row__link" href="#case-wardtwin"><span class="row__name">Ward Twin</span></a><span class="row__badge">Case study</span></span><span class="row__client">Hospital digital twin, a concept</span></div><span class="row__role">Concept, 3D, interface and build</span><span class="row__stack"><span class="tag">React Three Fiber</span><span class="tag">three.js</span><span class="tag">glTF</span></span><span class="row__lang" title="Arabic and English"><span class="visually-hidden">Arabic and English</span><span aria-hidden="true">AR/EN</span></span><a class="row__ext" href="https://imsemoo.github.io/ward-twin/" target="_blank" rel="noopener" aria-label="Visit imsemoo.github.io/ward-twin"><span class="row__ext-text">Visit</span><svg class="icon" aria-hidden="true" focusable="false"><use href="#i-arrow-up-right"/></svg></a></li>
 <li class="row row--t1" id="p-watad" data-tags="news design rtl" data-preview="img/work/watad-600.webp" data-rank-design="6"><span class="row__thumb"><img src="img/work/watad-thumb.webp" width="240" height="150" alt="" loading="lazy" decoding="async"></span><div class="row__main"><span class="row__title"><a class="row__link" href="#brief-watad"><span class="row__name">Watad <span class="ar" lang="ar" dir="rtl">وتد</span></span></a><span class="row__badge">In brief</span></span><span class="row__client">Arabic media site</span></div><span class="row__role">UI design from the brand identity, and the <span class="nobr">front-end</span></span><span class="row__stack"><span class="tag">HTML</span><span class="tag">CSS</span><span class="tag">JavaScript</span></span><span class="row__lang" title="Arabic"><span class="visually-hidden">Arabic</span><span aria-hidden="true">AR</span></span><a class="row__ext" href="https://taktek-dev.github.io/watad-theme/" target="_blank" rel="noopener" aria-label="Visit taktek-dev.github.io/watad-theme"><span class="row__ext-text">Visit</span><svg class="icon" aria-hidden="true" focusable="false"><use href="#i-arrow-up-right"/></svg></a></li>
 <li class="row row--t1" id="p-qasioun" data-tags="research design rtl" data-preview="img/work/qasioun-600.webp" data-rank-design="2"><span class="row__thumb"><img src="img/work/qasioun-thumb.webp" width="240" height="150" alt="" loading="lazy" decoding="async"></span><div class="row__main"><span class="row__title"><a class="row__link" href="https://qasiounstudies.org/" target="_blank" rel="noopener"><span class="row__name">Qasioun Center for Studies <span class="ar" lang="ar" dir="rtl">مركز قاسيون</span></span></a></span><span class="row__client">Strategic studies centre<span class="row__where">Syria, Türkiye</span></span></div><span class="row__role">Design, <span class="nobr">front-end</span> and back-end</span><span class="row__stack"><span class="tag">Laravel</span><span class="tag">Livewire</span><span class="tag">Bilingual</span></span><span class="row__lang" title="Arabic and English"><span class="visually-hidden">Arabic and English</span><span aria-hidden="true">AR/EN</span></span><span class="row__ext" aria-hidden="true"><span class="row__ext-text">Visit</span><svg class="icon" aria-hidden="true" focusable="false"><use href="#i-arrow-up-right"/></svg></span></li>
 <li class="row row--t1" id="p-ozcar" data-tags="apps commerce figma" data-preview="img/work/ozcar-600.webp"><span class="row__thumb"><img src="img/work/ozcar-thumb.webp" width="240" height="150" alt="" loading="lazy" decoding="async"></span><div class="row__main"><span class="row__title"><a class="row__link" href="#brief-ozcar"><span class="row__name">OzCar</span></a><span class="row__badge">In brief</span></span><span class="row__client">Car marketplace and dealer group<span class="row__where">Australia</span></span></div><span class="row__role">Front-end, built from Adobe XD designs</span><span class="row__stack"><span class="tag">HTML</span><span class="tag">SCSS</span><span class="tag">JavaScript</span></span><span class="row__lang" title="English"><span class="visually-hidden">English</span><span aria-hidden="true">EN</span></span><a class="row__ext" href="https://www.ozcar.com.au/" target="_blank" rel="noopener" aria-label="Visit ozcar.com.au"><span class="row__ext-text">Visit</span><svg class="icon" aria-hidden="true" focusable="false"><use href="#i-arrow-up-right"/></svg></a></li>
